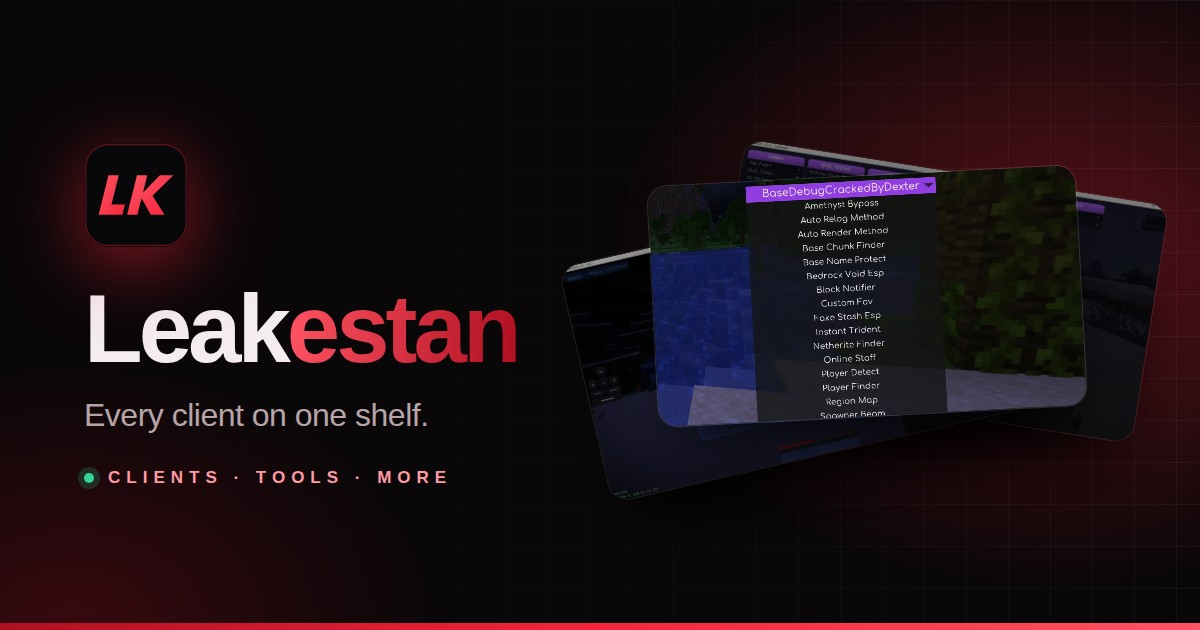
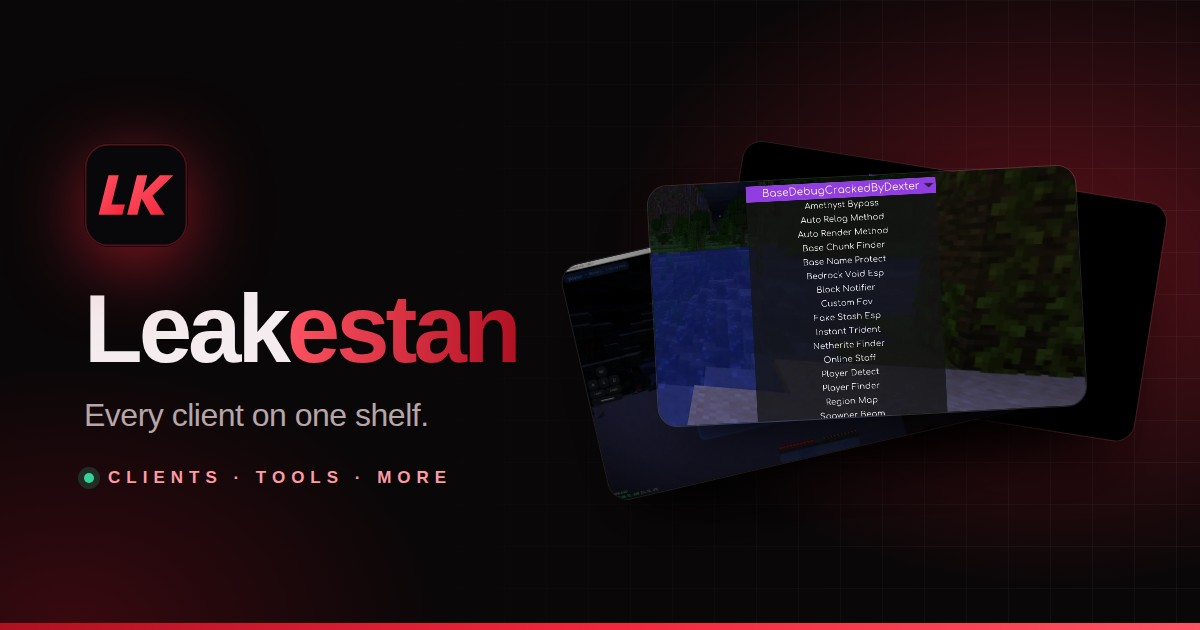
Remove Swyzzy Client, Code Engine and Larp Debug V8
Drops the three entries from content.js and deletes their screenshots
(13 clients remain). The link-preview image is re-rendered with Krypton
Avengers Addon in place of the Swyzzy screenshot; the hero stack picks
the three newest entries on its own. Nova Addon was requested too but has
not been on the site since the first placeholder version.

Verified in Chromium: 13 cards, all images load, none of the removed
names appear on the page, full suite passes on desktop, reduced motion
and touch mobile with no console errors.

Claude-Session: https://claude.ai/code/session_016BcrL9HehsNhDhiHFMmEXu

Changed region(s): [[0.6167, 0.2111, 0.7708, 0.3016], [0.8942, 0.3016, 0.9867, 0.4222]]

diff --git a/leakestan-site/data/content.js b/leakestan-site/data/content.js
@@ -81,23 +81,6 @@ window.LEAKESTAN = {
       added: "2026-09-21",
     },
     {
-      id: "swyzzy-client",
-      name: "Swyzzy Client",
-      category: "clients",
-      image: "assets/previews/swyzzy-client.webp",
-      tags: ["MC 1.21.11"],
-      download: "",
-      added: "2026-09-20",
-    },
-    {
-      id: "larp-debug-v8",
-      name: "Larp Debug V8",
-      category: "clients",
-      image: "assets/previews/larp-debug-v8.png",
-      download: "",
-      added: "2026-09-19",
-    },
-    {
       id: "krypton-avengers-addon",
       name: "Krypton Avengers Addon",
       category: "clients",
@@ -129,15 +112,6 @@ window.LEAKESTAN = {
       image: "assets/previews/4e-client.png",
       download: "",
       added: "2026-09-15",
-    },
-    {
-      id: "code-engine",
-      name: "Code Engine",
-      category: "clients",
-      image: "assets/previews/code-engine.webp",
-      tags: ["MC 1.21.11"],
-      download: "",
-      added: "2026-09-14",
     },
     {
       id: "gooba-client",
